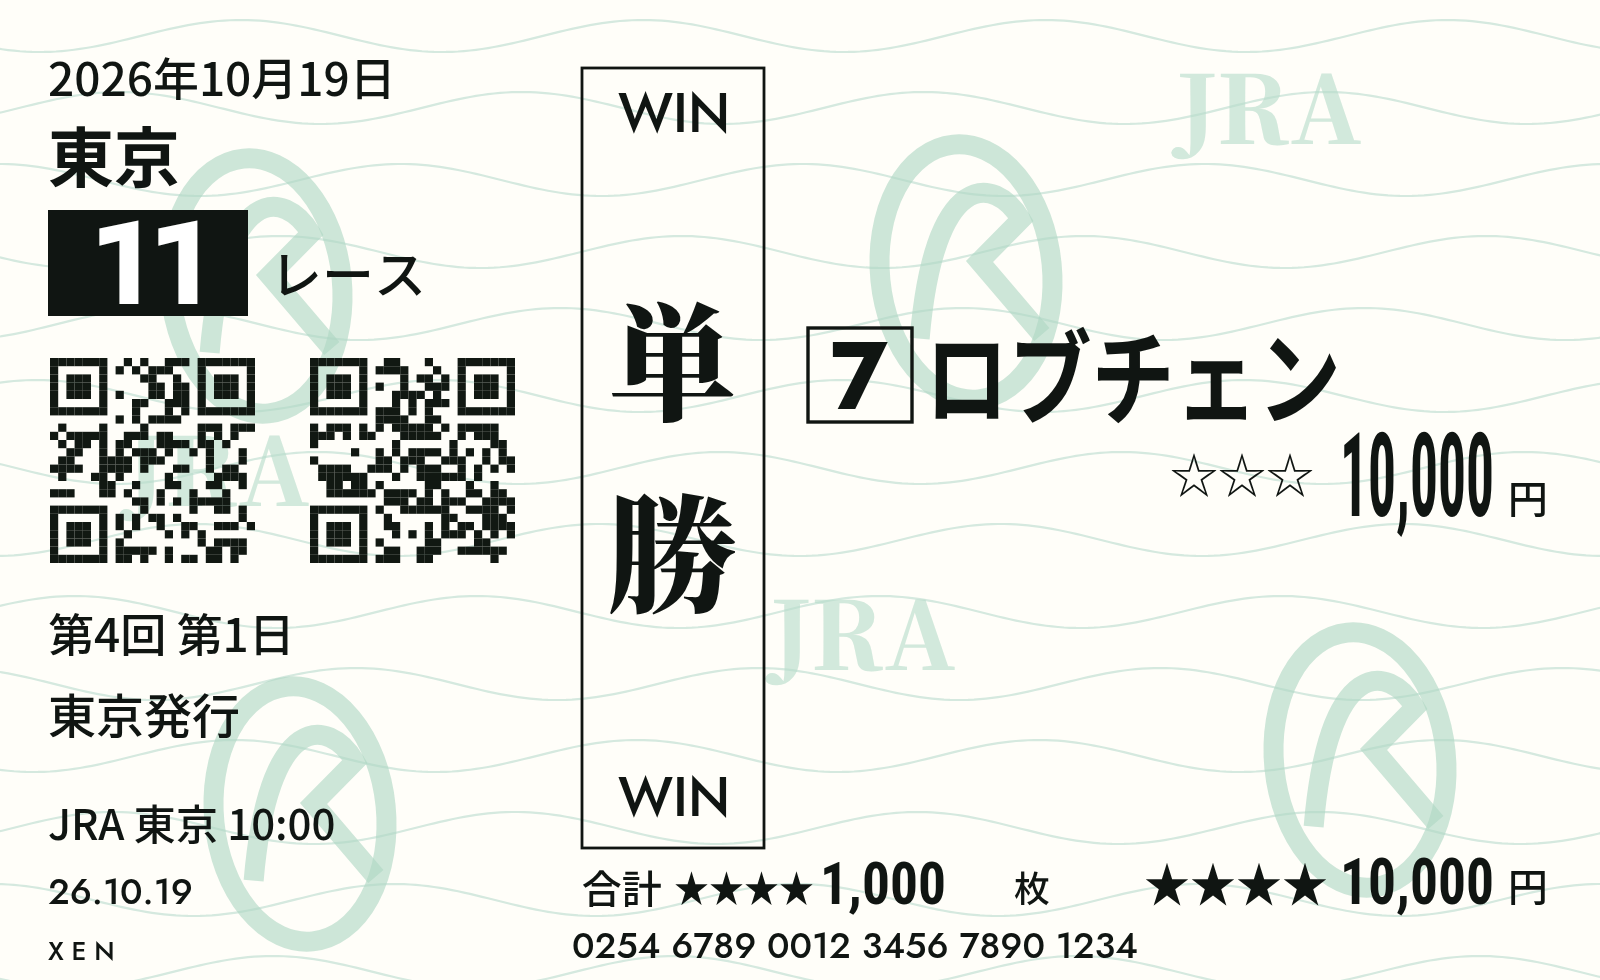
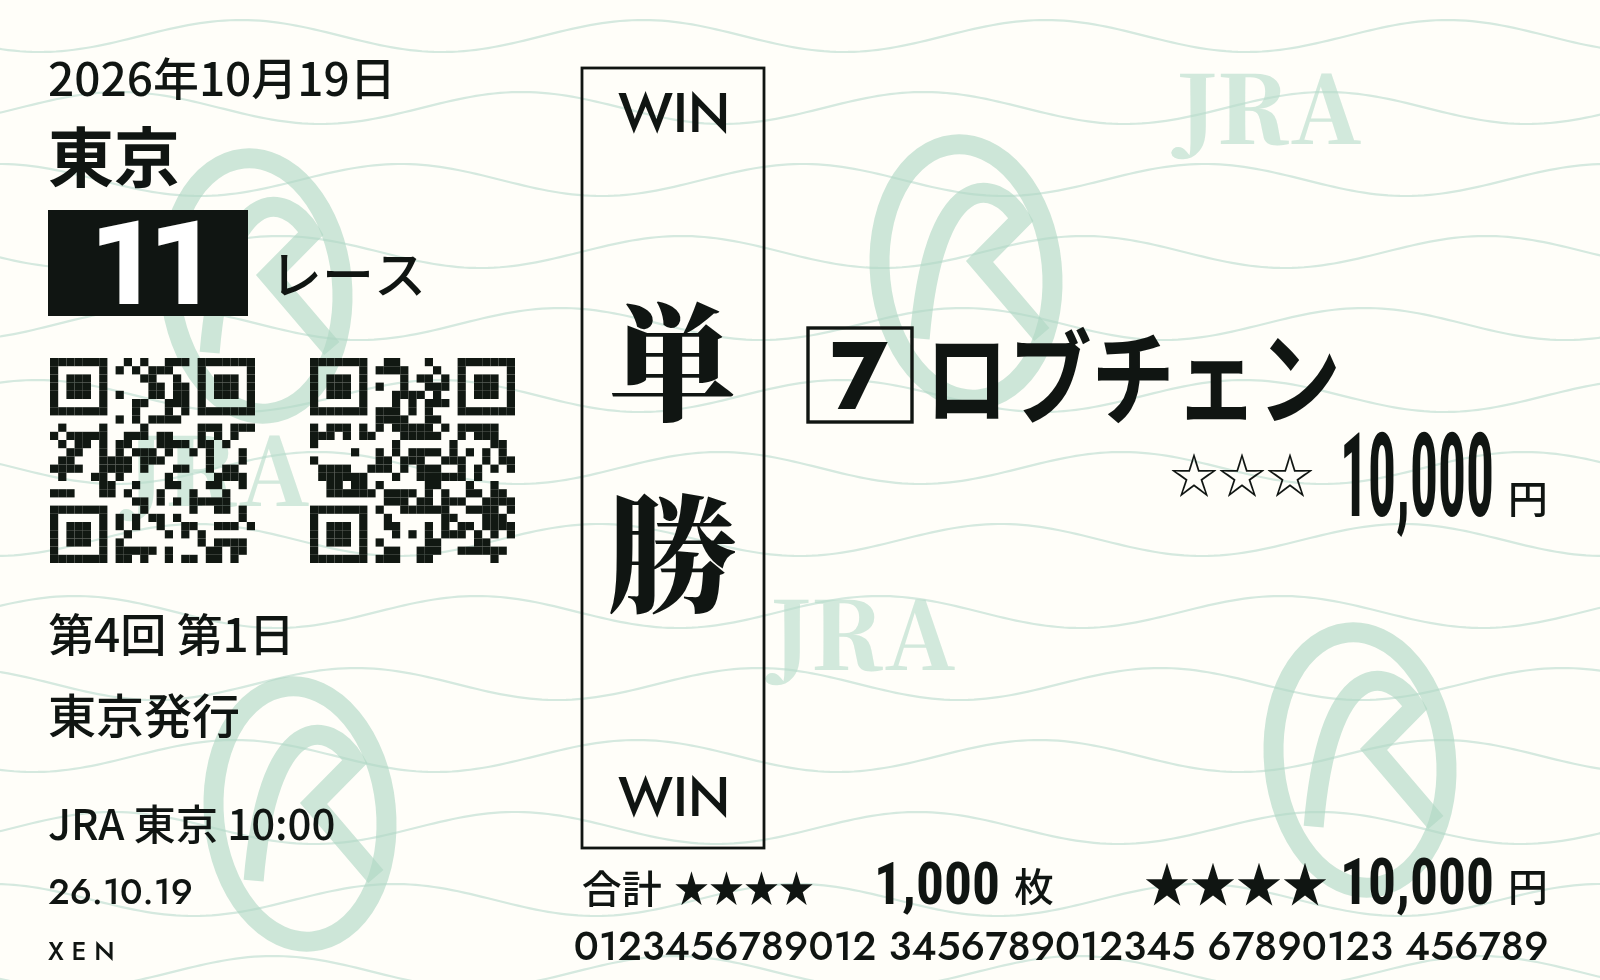
Align count units and match sample serial number layout

Changed region(s): [[0.3438, 0.8571, 0.9688, 0.9796]]

diff --git a/index.html b/index.html
@@ -24,7 +24,7 @@
 <button type="button" id="cancel-background" hidden>画像選択を取り消す</button>
 <div id="image-controls" hidden><div class="slider"><label for="image-x">左右位置</label><output id="image-x-value">50%</output><input id="image-x" type="range" min="0" max="100" value="50"></div><div class="slider"><label for="image-y">上下位置</label><output id="image-y-value">50%</output><input id="image-y" type="range" min="0" max="100" value="50"></div><div class="slider"><label for="image-zoom">拡大率</label><output id="image-zoom-value">100%</output><input id="image-zoom" type="range" min="100" max="300" value="100"></div><div class="slider"><label for="image-fade">薄さ</label><output id="image-fade-value">35%</output><input id="image-fade" type="range" min="0" max="100" value="35"></div><div class="image-actions"><button type="button" id="reset-image">配置をリセット</button><button type="button" id="remove-image">画像を削除</button></div></div>
 </section>
-<section class="form-section details-section"><details><summary>詳細設定 <span>開催情報・発券情報</span></summary><div class="grid details-grid"><div class="field"><label for="meeting">開催回</label><input name="meeting" id="meeting" type="number" min="1" max="99" value="4"><small class="error" id="meeting-error"></small></div><div class="field"><label for="day">開催日目</label><input name="day" id="day" type="number" min="1" max="99" value="1"><small class="error" id="day-error"></small></div><div class="field full"><label for="raceName">レース名</label><input name="raceName" id="raceName" maxlength="80" placeholder="例：第87回 菊花賞（GⅠ）"></div><div class="field"><label for="issuePlace">発券場所</label><input name="issuePlace" id="issuePlace" value="東京" maxlength="24" required><small class="error" id="issuePlace-error"></small></div><div class="field"><label for="issueTime">発券時刻</label><input name="issueTime" id="issueTime" type="time" value="10:00" required><small class="error" id="issueTime-error"></small></div><div class="field full"><label for="serial">管理番号</label><input name="serial" id="serial" value="0254 6789 0012 3456 7890 1234" maxlength="60" required><small class="error" id="serial-error"></small></div></div></details></section>
+<section class="form-section details-section"><details><summary>詳細設定 <span>開催情報・発券情報</span></summary><div class="grid details-grid"><div class="field"><label for="meeting">開催回</label><input name="meeting" id="meeting" type="number" min="1" max="99" value="4"><small class="error" id="meeting-error"></small></div><div class="field"><label for="day">開催日目</label><input name="day" id="day" type="number" min="1" max="99" value="1"><small class="error" id="day-error"></small></div><div class="field full"><label for="raceName">レース名</label><input name="raceName" id="raceName" maxlength="80" placeholder="例：第87回 菊花賞（GⅠ）"></div><div class="field"><label for="issuePlace">発券場所</label><input name="issuePlace" id="issuePlace" value="東京" maxlength="24" required><small class="error" id="issuePlace-error"></small></div><div class="field"><label for="issueTime">発券時刻</label><input name="issueTime" id="issueTime" type="time" value="10:00" required><small class="error" id="issueTime-error"></small></div><div class="field full"><label for="serial">管理番号</label><input name="serial" id="serial" value="0123456789012 3456789012345 67890123 456789" maxlength="60" required><small class="error" id="serial-error"></small></div></div></details></section>
 </form></aside>
 </main><footer><span>オリジナル馬券ジェネレーター</span><a href="./fonts/LICENSES.html" target="_blank" rel="noopener">フォント・ライセンス ↗</a></footer>
 </body></html>

diff --git a/app.js b/app.js
@@ -46,6 +46,13 @@
     const s=String(value), width=ctx.measureText(s).width;
     ctx.translate(x,y);ctx.scale(Math.min(1,maxWidth/Math.max(1,width)),1);ctx.fillText(s,0,0);ctx.restore();
   }
+  function rightBottomText(value,right,bottom,size=20,family='number',weight=500,maxWidth=580){
+    ctx.save();setFont(size,family,weight);ctx.fillStyle='#101512';ctx.textBaseline='alphabetic';
+    const s=String(value),m=ctx.measureText(s);
+    const scaleX=Math.min(1,maxWidth/Math.max(1,m.actualBoundingBoxLeft+m.actualBoundingBoxRight));
+    ctx.translate(right,bottom);ctx.scale(scaleX,1);
+    ctx.fillText(s,-m.actualBoundingBoxRight,-m.actualBoundingBoxDescent);ctx.restore();
+  }
   // Center on the painted glyph bounds, including asymmetric digits such as 1.
   function centeredText(value,cx,cy,size=20,family='sans',weight=500,maxWidth=Infinity,color='#101512',outline=false) {
     ctx.save();setFont(size,family,weight);ctx.textBaseline='alphabetic';ctx.fillStyle=color;
@@ -180,9 +187,9 @@
     }else money(d.amount,774,subtotalY,subtotalSize,314);
     const total=d.amount*(d.type==='cheer'?2:1), count=total/10;
     text('合計',291,452,20,'sans',500);text('★★★★',337,451,19,'number',500,70);
-    numericText(number(count),410,452,30);text('枚',507,451,18,'sans',500);
+    numericText(number(count),507-7-numericWidth(number(count)),452,30);text('枚',507,451,20,'sans',500);
     money(total,774,452,32,242,4,'★');
-    text(d.serial,286,479,18,'number',500,489);
+    rightBottomText(d.serial,774,480);
     text('X E N',24,480,13,'number',500,200);
   }
   form.addEventListener('submit',e=>e.preventDefault());

diff --git a/docs/VERIFICATION.md b/docs/VERIFICATION.md
@@ -57,3 +57,10 @@
 - 馬名直下の金額は、馬名の字形下端から4論理pxの間隔で配置。
 - 応援の単勝・複勝の小計は下方へ寄せ、合計額・枚数の行のすぐ上に配置。
 - Chromiumで3券種、100円・10,000円・999,900円について、白抜き星の上下中央、馬名と金額の間隔、黒星の位置維持、小計と合計行の間隔を描画座標で確認。保存PNGでも重なりがないことを確認。
+
+## 枚数の単位と右下番号の調整（2026-10-19）
+
+- 枚数を「枚」の直前へ右寄せし、金額と「円」と同じ7論理pxのセル間隔に統一。「枚」の文字サイズとベースラインも「円」に統一。
+- JRA公式応援サンプルの番号を拡大確認し、初期値を40桁（13・13・8・6桁区切り）に変更。
+- 番号の見えている右端をx=774、下端をy=480に揃え、短い値や最長60文字でも右下位置を固定。
+- Chromiumで3券種と100円・10,000円・999,900円、番号の短い値・初期値・最大長を確認。単位の間隔と番号の字形境界を描画座標で確認し、PNG保存でも収まりを確認。
